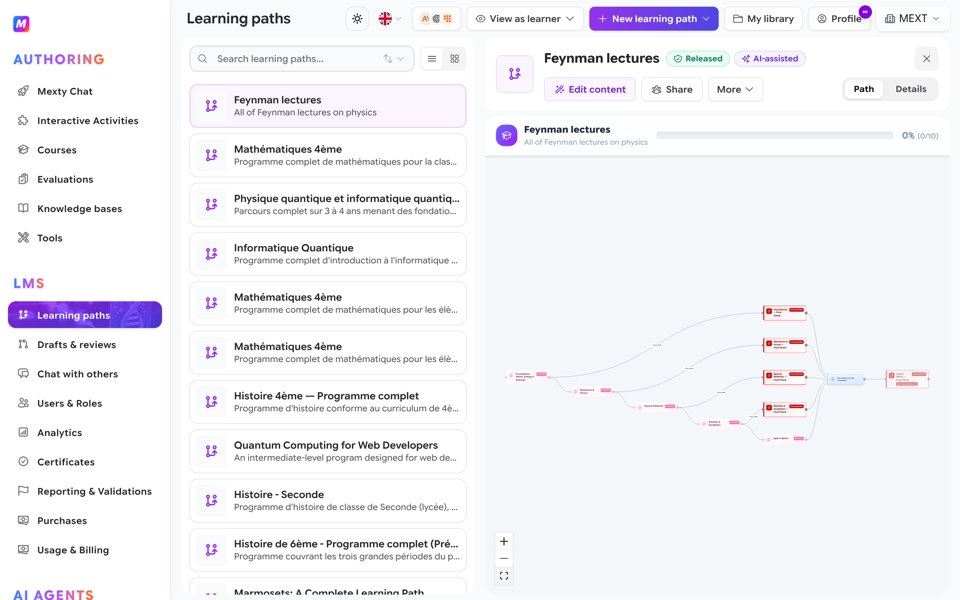
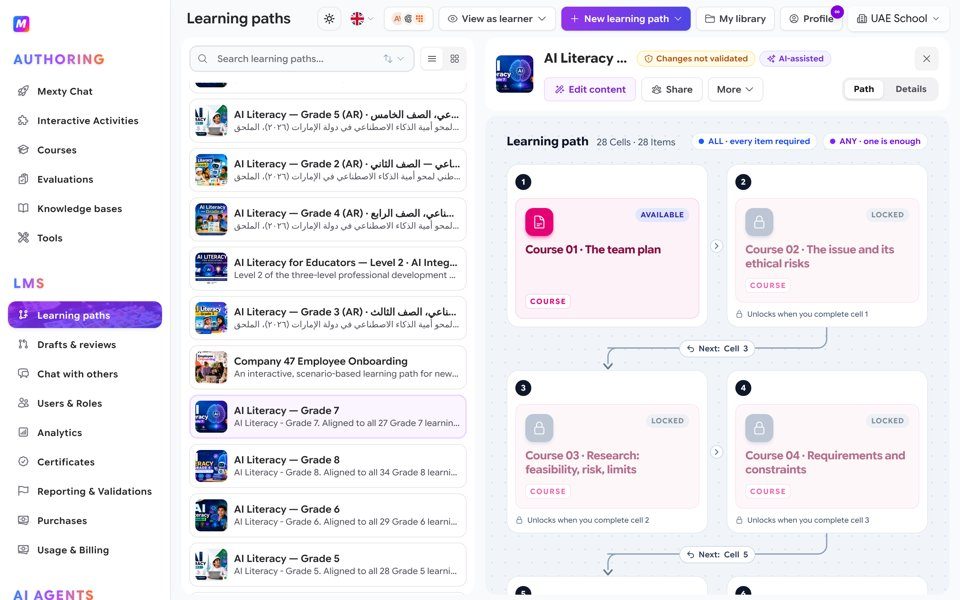
Add build-together skill and README section on collaboration; learning path screenshot in the new grid display
Claude-Session: https://claude.ai/code/session_011tb2fmztD1DrXdgzhCKChx

diff --git a/README.md b/README.md
@@ -38,7 +38,7 @@ learning games on **EdVerse**, creator communities on **Mextribe**, courses and 
 | | For families | For creators | For organisations |
 |---|---|---|---|
 | **Who** | Parents, children, students | Teachers, game makers, anyone with an AI subscription | Schools, universities, training providers, small and mid-size companies |
-| **What you do** | Play learning games, turn homework into a game, follow your child's progress | Build games and courses, sell them, run your own learning community | Build training, assign it to your people, see who completed what |
+| **What you do** | Play learning games, turn homework into a game, follow your child's progress | Build games and courses, alone or with others, sell them, run your own learning community | Build training as a team, assign it to your people, see who completed what |
 | **Where** | [EdVerse](https://future.mexty.ai/edverse) | EdVerse Studio and Mextribe | The MEXTY workspace: Authoring and LMS |
 | **Cost to start** | Free | Free | Authoring, Authoring + LMS or Enterprise plan |
 | **Read more** | [For parents](#for-parents-a-safe-place-and-a-way-to-follow-progress) | [For creators](#for-creators-make-list-listen-earn) | [For organisations](#for-organisations-build-assign-track) |
@@ -140,7 +140,7 @@ MEXTY is an authoring tool and an LMS, bought separately or together. With the M
 
 <table>
 <tr>
-<td width="50%"><img src="assets/platform/learning-paths.jpg" alt="Learning paths in the MEXTY workspace: a released path shown as a map of courses and evaluations"><br><sub><b>Build.</b> A learning path is a map of courses and evaluations, with branches and a final check. Edit it yourself or let your AI build the whole structure.</sub></td>
+<td width="50%"><img src="assets/platform/learning-paths.jpg" alt="Learning paths in the MEXTY workspace: a path shown as numbered cells that unlock in order"><br><sub><b>Build.</b> A learning path is a grid of numbered cells that unlock in order. A cell can hold several items, with all of them or any one required. Edit it yourself or let your AI build the whole structure.</sub></td>
 <td width="50%"><img src="assets/platform/analytics.jpg" alt="Analytics in the MEXTY workspace: learners, completion, score and time per course, and progress per learner"><br><sub><b>Track.</b> Learners, completion, score and time for each course, and a progress line for each learner.</sub></td>
 </tr>
 </table>
@@ -151,11 +151,25 @@ MEXTY is an authoring tool and an LMS, bought separately or together. With the M
 | A **training provider** | Courses that export to HTML and SCORM for the LMS your clients already have |
 | A **company** | Onboarding, compliance and product training built from your own documents; seats and roles for your teams; who completed what |
 
-- **Review before release**: work in a draft, ask a colleague to review, publish or schedule it.
 - **Roles and seats**: invite creators and learners; roles decide what each person can do.
 - **Reach beyond your walls**: post a course on Mextribe, or list an activity that works as a game on EdVerse.
 
 The MEXTY MCP comes with **Authoring**, **Authoring + LMS** and **Enterprise**. Assigning content to learners and tracking them needs the LMS. Start with [`mexty-courses-for-teams`](skills/mexty-courses-for-teams/SKILL.md); prices are on the [pricing page](https://mexty.ai/pricing).
+
+## Built together
+
+Neither a course nor a game is a one-person job, so both products are made for shared work. Learners and players only ever see what was published or merged.
+
+| | In the MEXTY workspace | In EdVerse |
+|---|---|---|
+| **Work side by side** | Co-authors on a course, activity, evaluation or learning path | Several people and their AI assistants in the same live 3D editor and the same code. Edits merge; nothing is locked |
+| **Try things safely** | Drafts: changes people are trying out, beside the Live version | Drafts of a game's world and code. Anyone who joins by the share link works in one |
+| **Review** | Name reviewers, comment on the content, see the changes and who they affect, approve or send back | See what changed object by object and file by file; the owner or a maintainer merges |
+| **Release** | Publish now or schedule it | Merge into the game; the store plays the new version after its review |
+| **Go back** | Version history: compare, and restore any version as a draft | A draft can be closed; conflicts are picked side by side |
+| **Credit** | Co-authors are named | The authors of merged work are credited, and share in what the game earns from the learner pool |
+
+A class can build one game this way: the teacher owns it, each group works in its own draft, and the class reviews each one before it is merged. See [`build-together`](skills/build-together/SKILL.md).
 
 ## What is free, and what needs a plan
 
@@ -180,6 +194,7 @@ The MCP tools spend no MEXTY credits: your own AI subscription does the thinking
 | [`free-creative-toolkit`](skills/free-creative-toolkit/SKILL.md) | Headless Blender for 3D, Whisper for subtitles, Opuscar film styles for video, stock media, before any paid generation |
 | [`mextribe-community`](skills/mextribe-community/SKILL.md) | Posts, paid plans, comments, updates and insights: a learning community run by one person |
 | [`mexty-courses-for-teams`](skills/mexty-courses-for-teams/SKILL.md) | Courses, activities, evaluations and learning paths for schools and companies, with seats and analytics |
+| [`build-together`](skills/build-together/SKILL.md) | Co-authoring, drafts, reviews, comments, versions and merges, in the workspace and in EdVerse |
 | [`instagram-showcase`](skills/instagram-showcase/SKILL.md) | Reels, Stories, carousels and captions from what you made |
 
 ### Included from other authors

diff --git a/skills/build-together/SKILL.md b/skills/build-together/SKILL.md
@@ -1,0 +1,63 @@
+---
+name: build-together
+description: Sets up and runs shared work on MEXTY content and EdVerse games, where several people and their AI assistants build the same course, learning path or game. Use when someone wants to co-author, invite a colleague, a class or a friend to build with them, work in a draft without touching what learners or players see, ask for or give a review, comment on content, compare or restore versions, merge someone's changes, or when two people edited the same thing and it conflicts.
+---
+
+# Build together
+
+Both MEXTY and EdVerse keep one live version that learners and players see, and let people work beside it in drafts. Nothing in a draft reaches a learner or a player until it is published or merged.
+
+## In the MEXTY workspace (courses, activities, evaluations, learning paths)
+
+Who can do what comes from the organisation's roles. Check before editing something that is not yours: `get_my_access` returns `canEdit`, `canWorkOnDrafts` and the role (owner, admin, editor, contributor, reviewer).
+
+| Step | Tool | Notes |
+|---|---|---|
+| Start a draft of live content | `create_content_draft` | When `canEdit` is false, a draft or a comment is the only way in |
+| Bring people in | `add_draft_members`, `add_draft_reviewers`, `set_coauthor` | Co-authors are credited on the content |
+| Discuss | `add_content_comment`, `list_content_comments` | Comments stay with the content |
+| See what changed | `get_content_draft_diff`, `get_draft_impact` | Read the impact before publishing: who is enrolled, what they would lose |
+| Ask for a review | `request_content_review` | |
+| Give a review | `review_content_draft` | Approve or send back with reasons |
+| Catch up with Live | `update_content_draft_from_live` | When Live moved while the draft was open |
+| Release | `publish_content_draft` or `schedule_content_draft` | Only with the person's yes |
+| Go back | `list_content_versions`, `compare_content_version`, `restore_version_as_draft` | A restore opens as a draft, never straight to Live |
+
+Rules:
+
+- Never publish or schedule for someone. Show the diff and the impact, then ask.
+- A reviewer reviews; they do not rewrite the author's draft. Put changes in comments unless asked to edit.
+- Learners' names and results seen during a review stay in the workspace.
+
+## In EdVerse (games)
+
+A game's world and its code can be edited by several people and assistants at the same time. Edits merge; nothing is locked.
+
+**Roles.** The owner and maintainers edit the main version and merge drafts. Everyone who joins by the share link starts as a contributor: they work in drafts and ask for a review. Store staff can read and comment.
+
+**The flow.**
+
+1. The owner shares the game's link from the editor. Each person who joins gets the live 3D editor.
+2. A contributor's work goes into a draft: `create_draft({ game_id })`, then pass `draft_id` to the scene and file tools. A contributor's assistant works in their draft automatically.
+3. `get_draft_diff` shows what changed, object by object and file by file.
+4. `request_review` emails the owner and maintainers.
+5. The owner or a maintainer merges with `merge_draft`. `update_draft_from_main` catches a draft up first; `close_draft` drops one.
+
+**Editing code at the same time.** Prefer `edit_game_files` (old text to new text) for small changes. For whole files, pass back the `bases` that `read_game_files` returned, so the write merges against the version you read. A region someone else changed meanwhile comes back with conflict markers and is not written: read it, resolve it, write again.
+
+**Conflicts on merge.** What only one side changed merges by itself. The same field or the same lines changed on both sides, or an object changed on one side and deleted on the other, is a conflict. `merge_draft` lists them; call it again with a pick for each (`main` or `draft`, or an edited version for code). Ask the people involved when the right pick is not obvious.
+
+**Credit.** When a draft is merged, its authors are credited, not the person who merged it. Only merged work counts for the learner pool.
+
+## A class or a club building one game
+
+- The teacher owns the game and keeps it as the main version.
+- Each student or pair joins by the share link and works in their own draft: one level, one character, one set of questions.
+- The teacher reviews each draft with the class, then merges it. Conflicts become a discussion, which is the lesson.
+- The game goes through `edverse-game-qa` before anyone submits it. The owner takes the game test.
+
+## When to stop and ask
+
+- Before merging or publishing anything.
+- Before closing or discarding someone else's draft.
+- When a conflict pick would delete another person's work.

diff --git a/skills/mexty-start/SKILL.md b/skills/mexty-start/SKILL.md
@@ -30,6 +30,7 @@ Ask at most two questions, and only what the request has not already answered: w
 | Someone with an AI subscription who wants income | Games on the store, a paid community, or both | `edverse-publish-and-earn`, `mextribe-community` |
 | A creator with an audience | Posts, paid plans, comments, insights | `mextribe-community` |
 | A school, university or company | Courses, programs, evaluations, learners and seats | `mexty-courses-for-teams` |
+| Two or more people, a class, a team | To build the same course or game together, review each other, merge | `build-together` |
 | Anyone with something finished | To show it on Instagram or TikTok | `instagram-showcase` |
 
 A person can be several of these. A teacher who builds a game for their class, lists it on EdVerse, posts it on Mextribe and shares the Story card is using four skills in a row: say which step you are on.

diff --git a/skills/mexty-courses-for-teams/SKILL.md b/skills/mexty-courses-for-teams/SKILL.md
@@ -42,7 +42,7 @@ Follow the server's own instructions for each type; they are strict for good rea
 
 ## Review before learners see it
 
-Work in a draft (`create_content_draft`), ask for a review (`request_content_review`), and publish or schedule it once approved. Check `get_my_access` before editing something that is not yours.
+Work in a draft (`create_content_draft`), ask for a review (`request_content_review`), and publish or schedule it once approved. Check `get_my_access` before editing something that is not yours. Co-authors, reviewers, comments and version history are covered in `build-together`.
 
 ## Distribute
 
